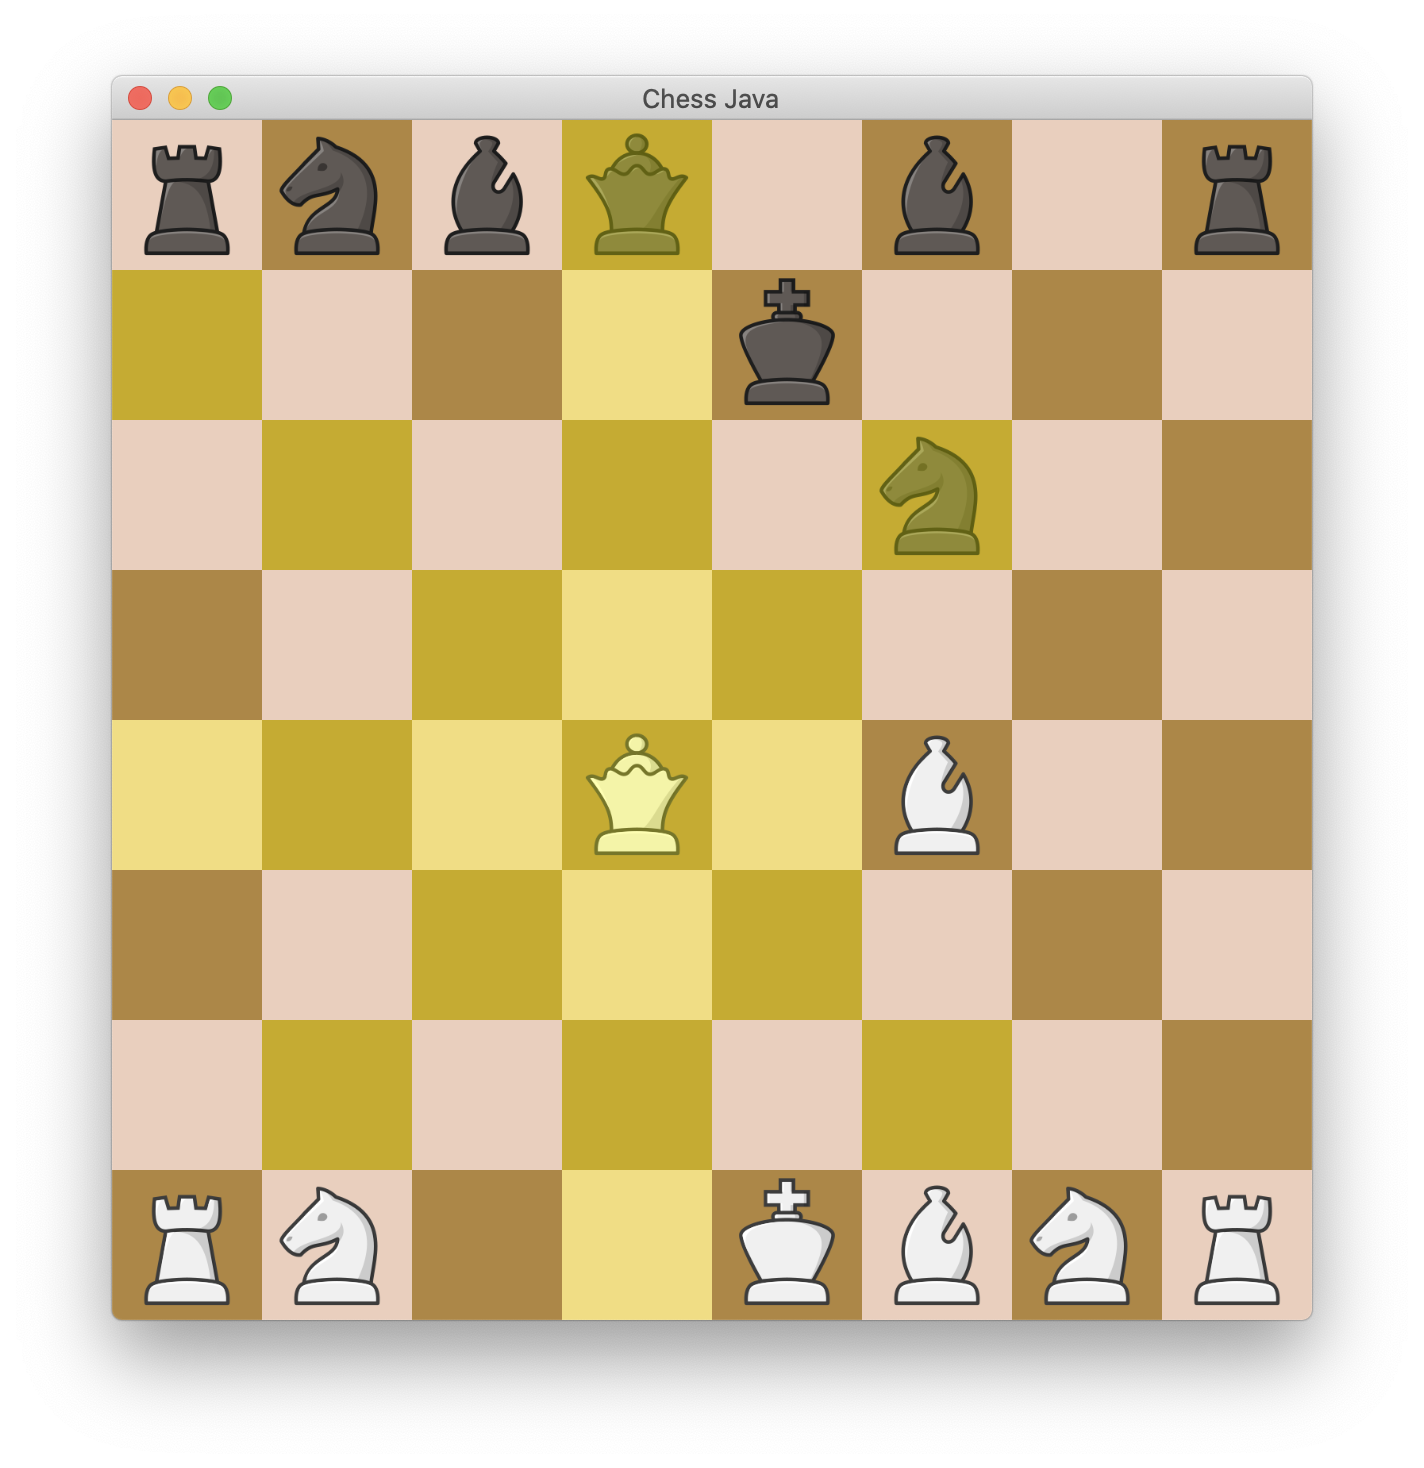
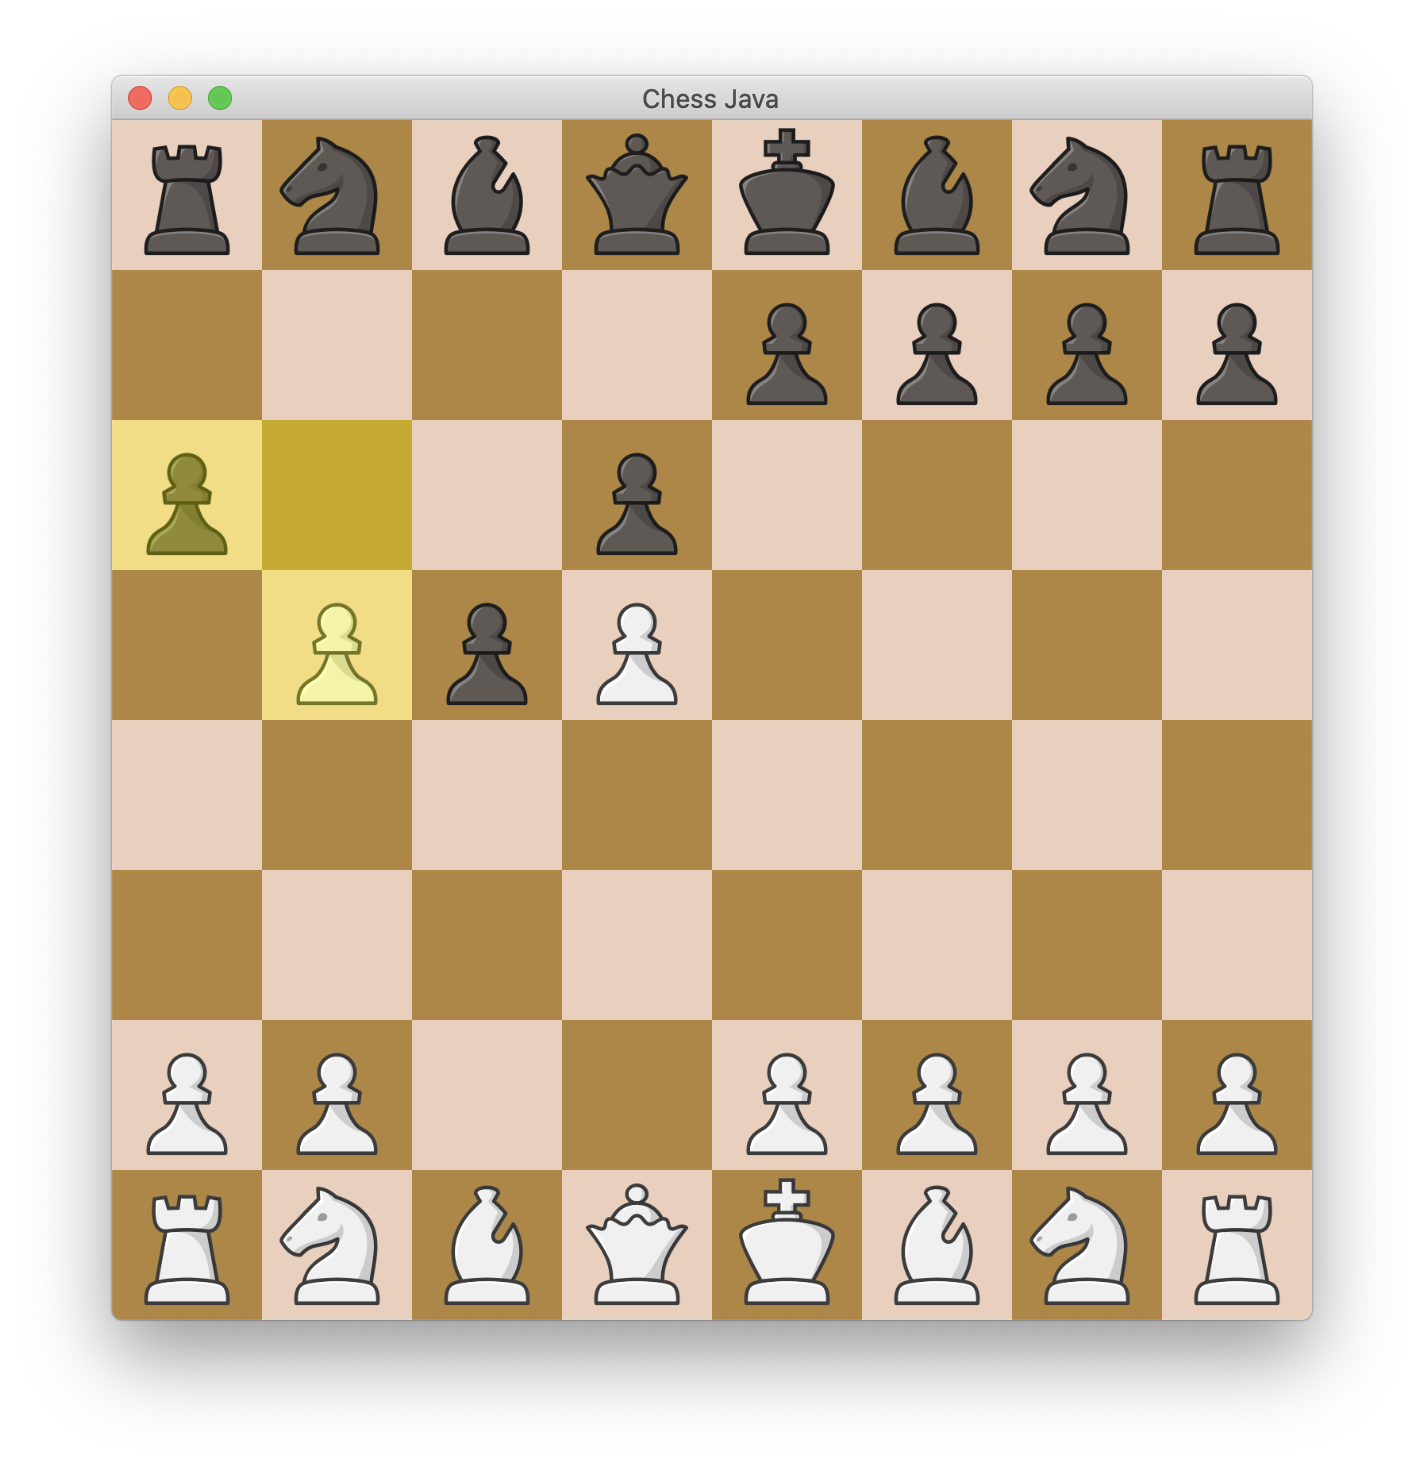
Mainly worked on pawn. Currently does not support En Passant and promotion.

diff --git a/chess_java/src/game/pieces/Pawn.java b/chess_java/src/game/pieces/Pawn.java
@@ -1,0 +1,95 @@
+package game.pieces;
+
+import game.Board;
+import game.misc.Colour;
+import game.misc.Move;
+import game.misc.Position;
+
+import java.util.ArrayList;
+import java.util.List;
+import java.util.Optional;
+
+public class Pawn extends DefaultPiece implements Piece {
+
+  public Pawn(Colour colour, Position position) {
+    super(colour, position);
+  }
+
+  @Override
+  public PieceType getPieceType() {
+    return PieceType.PAWN;
+  }
+
+  private void checkMoveValidityAndAdd
+      (Board board, ArrayList<Move> movesList, Position pos, boolean needCapture) {
+
+    Optional<Piece> maybePiece = board.findPieceAtPosition(pos);
+    Move move = new Move(this, pos);
+
+    if (needCapture) {
+      if (maybePiece.isPresent()) {
+        Piece piece = maybePiece.get();
+
+        if (!piece.getColour().equals(getColour())) {
+          movesList.add(move);
+        }
+      }
+    } else {
+      if (maybePiece.isEmpty()) {
+        movesList.add(move);
+      }
+    }
+  }
+
+  @Override
+  public List<Move> getValidMoves(Board board) {
+    ArrayList<Move> moves = new ArrayList<>();
+    Position newPos;
+
+    // Move forward 1 square
+    newPos = position.copy();
+    newPos.moveForward(colour);
+    assert !newPos.isOutOfBounds(board);
+
+    checkMoveValidityAndAdd(board, moves, newPos, false);
+
+    // Move forward 2 squares
+    int initialRowOffset = 1;
+
+    if ((position.getRow() == initialRowOffset && colour.equals(Colour.WHITE))
+     || (position.getRow() == (board.getNoRows() - 1) - initialRowOffset
+        && colour.equals(Colour.BLACK))) {
+      newPos = position.copy();
+      newPos.moveForward(colour).moveForward(colour);
+      assert !newPos.isOutOfBounds(board);
+
+      checkMoveValidityAndAdd(board, moves, newPos, false);
+    }
+
+    // Capture pieces (left)
+    newPos = position.copy();
+    newPos.moveLeft().moveForward(colour);
+    if (!newPos.isOutOfBounds(board)) {
+      checkMoveValidityAndAdd(board, moves, newPos, true);
+    }
+
+    // Capture pieces (right)
+    newPos = position.copy();
+    newPos.moveRight().moveForward(colour);
+    if (!newPos.isOutOfBounds(board)) {
+      checkMoveValidityAndAdd(board, moves, newPos, true);
+    }
+
+    return moves;
+  }
+
+  @Override
+  public Piece copy() {
+    return new Pawn(colour, position.copy());
+  }
+
+  @Override
+  public String toString() {
+    return "";
+  }
+}

diff --git a/chess_java/src/app/Main.java b/chess_java/src/app/Main.java
@@ -50,12 +50,14 @@ public class Main extends Application {
     pieceImages.put(new Pair<>(PieceType.BISHOP, Colour.WHITE), new Image("file:img/wB.png"));
     pieceImages.put(new Pair<>(PieceType.KING  , Colour.WHITE), new Image("file:img/wK.png"));
     pieceImages.put(new Pair<>(PieceType.KNIGHT, Colour.WHITE), new Image("file:img/wN.png"));
+    pieceImages.put(new Pair<>(PieceType.PAWN  , Colour.WHITE), new Image("file:img/wP.png"));
     pieceImages.put(new Pair<>(PieceType.QUEEN , Colour.WHITE), new Image("file:img/wQ.png"));
     pieceImages.put(new Pair<>(PieceType.ROOK  , Colour.WHITE), new Image("file:img/wR.png"));
 
     pieceImages.put(new Pair<>(PieceType.BISHOP, Colour.BLACK), new Image("file:img/bB.png"));
     pieceImages.put(new Pair<>(PieceType.KING  , Colour.BLACK), new Image("file:img/bK.png"));
     pieceImages.put(new Pair<>(PieceType.KNIGHT, Colour.BLACK), new Image("file:img/bN.png"));
+    pieceImages.put(new Pair<>(PieceType.PAWN  , Colour.BLACK), new Image("file:img/bP.png"));
     pieceImages.put(new Pair<>(PieceType.QUEEN , Colour.BLACK), new Image("file:img/bQ.png"));
     pieceImages.put(new Pair<>(PieceType.ROOK  , Colour.BLACK), new Image("file:img/bR.png"));
   }

diff --git a/chess_java/src/game/Board.java b/chess_java/src/game/Board.java
@@ -55,6 +55,11 @@ public class Board {
     pieces.add(new Bishop(Colour.BLACK, new Position(7, 5)));
     pieces.add(new Queen (Colour.BLACK, new Position(7, 3)));
     pieces.add(new King  (Colour.BLACK, new Position(7, 4)));
+
+    for (int i = 0; i < noCols; i++) {
+      pieces.add(new Pawn(Colour.WHITE, new Position(1, i)));
+      pieces.add(new Pawn(Colour.BLACK, new Position(6, i)));
+    }
   }
 
   public Optional<Piece> findPieceAtPosition(Position position) {

diff --git a/chess_java/src/game/misc/Position.java b/chess_java/src/game/misc/Position.java
@@ -51,6 +51,14 @@ public class Position {
     return this;
   }
 
+  public Position moveForward(Colour colour) {
+    if (colour.equals(Colour.WHITE)) {
+      return moveUp();
+    } else {
+      return moveDown();
+    }
+  }
+
   public boolean isOutOfBounds(Board board) {
     // row and column are 0-indexed
     return row < 0

diff --git a/chess_java/src/game/pieces/Bishop.java b/chess_java/src/game/pieces/Bishop.java
@@ -71,6 +71,7 @@ public class Bishop extends DefaultPiece implements Piece {
     return moves;
   }
 
+  @Override
   public Piece copy() {
     return new Bishop(colour, position.copy());
   }

diff --git a/chess_java/src/game/pieces/Knight.java b/chess_java/src/game/pieces/Knight.java
@@ -65,6 +65,7 @@ public class Knight extends DefaultPiece implements Piece {
     return moves;
   }
 
+  @Override
   public Piece copy() {
     return new Knight(colour, position.copy());
   }

diff --git a/chess_java/src/game/pieces/King.java b/chess_java/src/game/pieces/King.java
@@ -115,6 +115,7 @@ public class King extends DefaultPiece implements Piece {
     return false;
   }
 
+  @Override
   public Piece copy() {
     return new King(colour, position.copy());
   }

diff --git a/chess_java/src/game/pieces/Queen.java b/chess_java/src/game/pieces/Queen.java
@@ -36,6 +36,7 @@ public class Queen extends DefaultPiece implements Piece {
     return moves;
   }
 
+  @Override
   public Piece copy() {
     return new Queen(colour, position.copy());
   }

diff --git a/chess_java/src/game/pieces/Rook.java b/chess_java/src/game/pieces/Rook.java
@@ -73,6 +73,7 @@ public class Rook extends DefaultPiece implements Piece {
     return moves;
   }
 
+  @Override
   public Piece copy() {
     return new Rook(colour, position.copy());
   }

diff --git a/README.md b/README.md
@@ -1,6 +1,6 @@
 # Chess
 
-Making chess in Java, using JavaFX for the GUI. The board is rendered as a canvas. Here's a preview of the project (25 May), where I haven't implemented pawns yet.
+Making chess in Java, using JavaFX for the GUI. The board is rendered as a canvas. Here's a preview of the project (25 May).
 
 Planning to add more features, such as a move list, captured pieces, possibly an AI.
 
